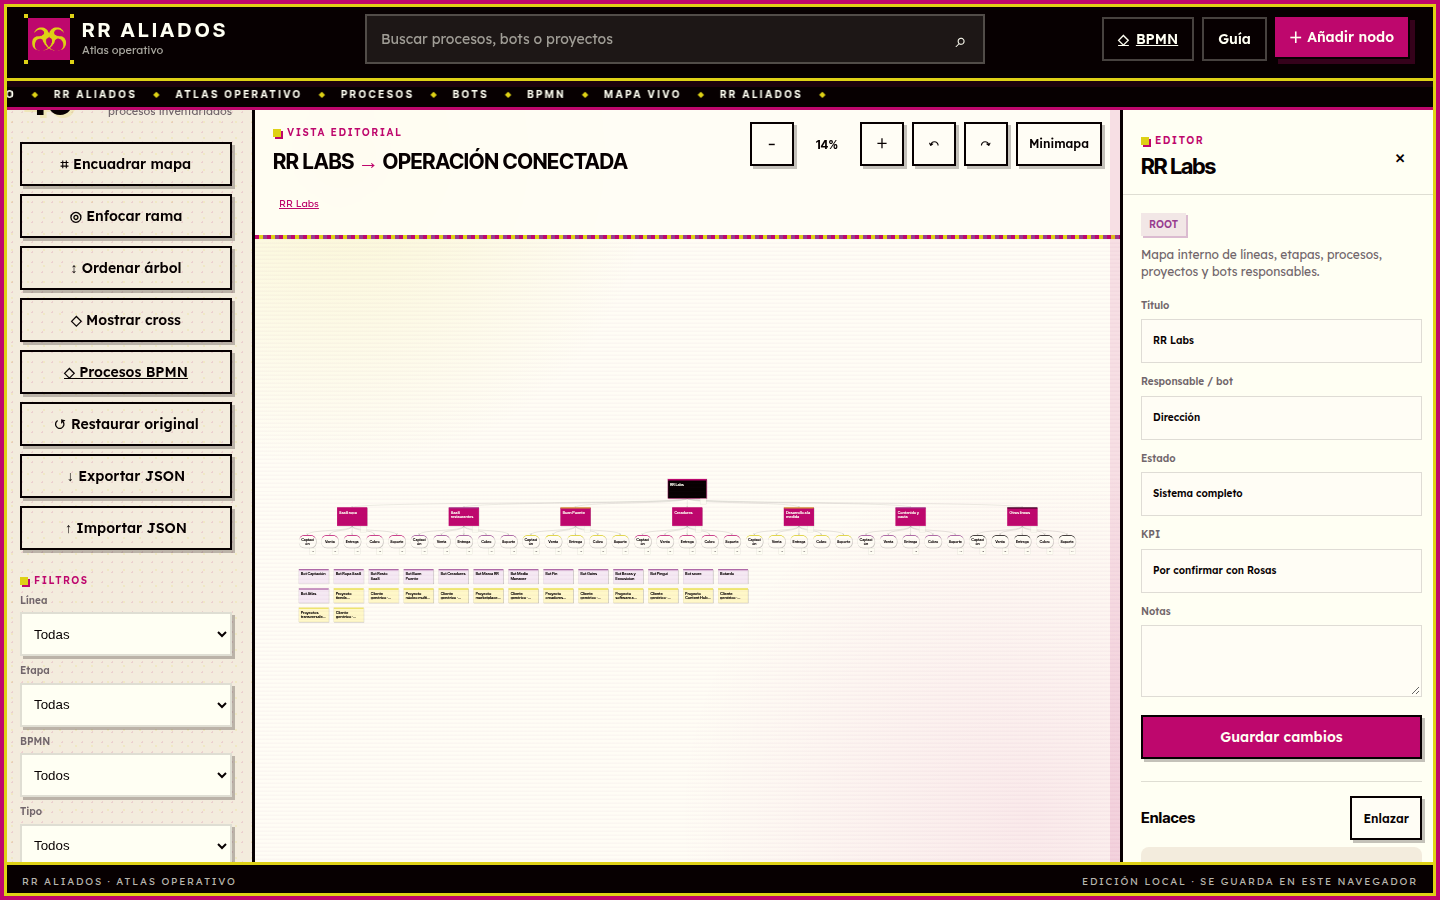
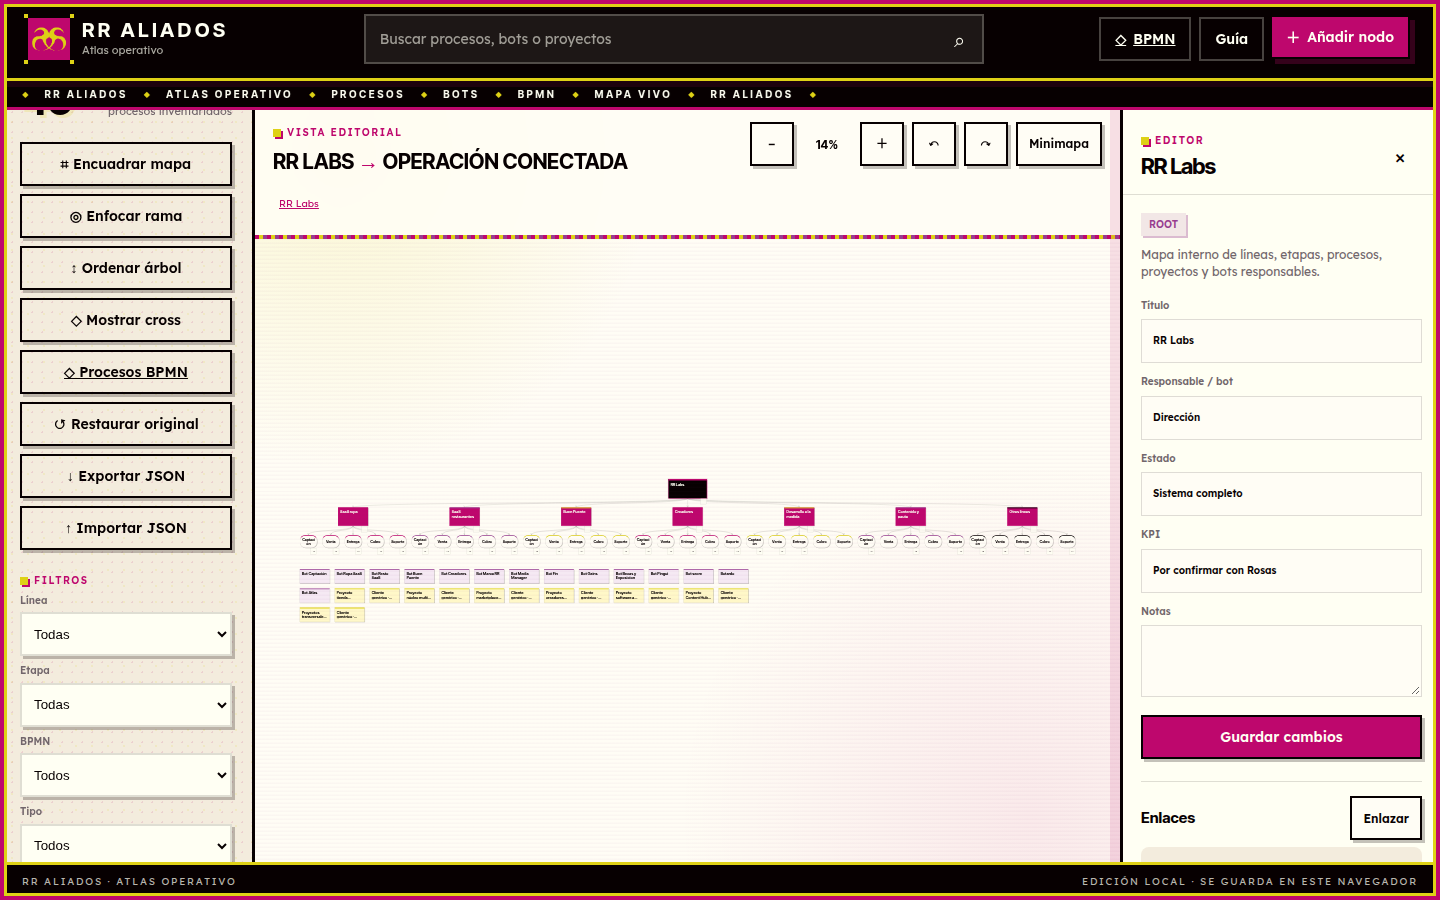
docs: bitácora del bloque 7 (item 7, responsive y táctil)

diff --git a/docs/fusion/BITACORA.md b/docs/fusion/BITACORA.md
@@ -370,3 +370,62 @@ bloqueaban el item 3. Todo queda commiteado y pusheado en la misma rama.
 - `docs/fusion/capturas/dividido-movil-390-esquema.png`
 - `docs/fusion/capturas/dividido-movil-390-inicio.png`
 - `docs/fusion/capturas/dividido-movil-390-completo.png`
+
+## Bloque 7 · Item 7 · Responsive y táctil — 2026-11-02
+
+### Qué se hizo
+- **El mapa ahora se puede usar con el dedo y con el mouse en tablet y celular.** El fallo de fondo era
+  el encuadre: `fit()` metía el árbol completo en la pantalla, y en 768 px eso daba **9 % de zoom**
+  (los nodos medían 23×12 px: ningún clic era posible) y en 360 px la raíz quedaba **fuera del lienzo**
+  (tapada por la barra lateral). Ahora, en ventanas de hasta 900 px, el mapa baja como máximo al
+  **45 % de zoom** y queda **anclado en la raíz del Atlas** (`nodoAncla()`: la selección actual o la
+  raíz), de modo que el nodo se lee y se toca. En escritorio **no se toca nada**: el encuadre completo
+  se conserva tal cual lo conoce Rosas.
+- **Clic en los nodos del mapa a 768 y 360 px**: verificado con clic real de Playwright. Antes el paso
+  «navegar» de la auditoría fallaba con `Timeout 30000ms exceeded` en las dos medidas; ahora el clic
+  abre el editor del nodo (`rr-labs`) en las dos.
+- **«Unir» ya no se monta sobre el título a 390 px**: la cabecera de la vista BPMN pasa a íconos en
+  celular (`▥`, `☰`, `←`) con `aria-label` y `title`, y el título se recorta con puntos suspensivos
+  (`.bpmn-view__identidad > div { min-width: 0 }` + `max-width: 100 %` en el título). Medido: el título
+  termina en 228 px y las acciones empiezan en 240 px → **sin solape** (antes: 258 vs 240).
+- **Controles del diagrama en un botón «⋯»**: en celular la barra se queda con lo esencial (pantalla
+  completa, editar, anterior, siguiente, zoom, encuadrar, guía) y **deshacer, rehacer, guardar copia,
+  restaurar semilla y exportar (.bpmn, SVG, PNG)** quedan en el menú **«⋯»**, que va fijo a la
+  izquierda de la barra deslizable. Las siete acciones miden 44 px de alto. En escritorio la barra
+  sigue igual que antes (el menú es solo de celular).
+- **Barra superior compacta en tablet** (≤ 900 px): marca y logo más chicos, «Añadir nodo» queda en el
+  ícono `＋` y todos los botones siguen con 44 px de alto.
+- **Gestos táctiles del tablero**: pan con un dedo y **pellizco con dos dedos** (zoom alrededor del punto
+  medio). En pantalla táctil el nodo no se arrastra: el dedo mueve o pellizca el mapa; con ratón el
+  arrastre de nodos sigue igual. El diagrama BPMN ya tenía `touch-action: none` en el contenedor de
+  bpmn-js, así que el pellizco funciona también allí.
+
+### Estado de los checks
+- `npm run check`: **verde** — 202 tests pass, 0 fail, build ok.
+- `npm run lint:bpmn`: **verde** — 16 semillas, 0 errores fuera de la deuda documentada.
+- `npm run audit:ux`: se vuelve a correr al cierre de este bloque (resultado en la tabla de abajo).
+- Pruebas de clic propias (Playwright, `/usr/bin/google-chrome`): clic en nodo del mapa **ok** a 768 y
+  360; pellizco en el mapa **ok** (zoom 45 % → 113 % en 390 px, 20 % → 51 % en 1440); pan con un dedo
+  **ok**; cabecera BPMN **sin solape** a 390, 360 y 768; menú «⋯» abierto y dentro de la pantalla con
+  las 7 acciones de 44 px; 0 errores de consola.
+
+### Cambios en las pruebas
+- `src/app/rr-tree-view.test.mjs`: el zoom móvil mínimo baja de 60 % a **45 %** (J8 y P2) porque el
+  encuadre completo en celular dejó de ser usable. Se añadió la comprobación nueva: **la raíz del Atlas
+  queda dentro del lienzo y se puede tocar** (≥ 90×44 px). En 1440 px las reglas de encuadre completo
+  siguen iguales.
+
+### Hallazgos / riesgos
+- En celular el mapa ya no muestra el árbol entero de un vistazo (se ve la rama anclada). Es el precio de
+  que los nodos se puedan tocar; el minimapa y «Encuadrar mapa» siguen disponibles.
+- En 360 px la barra del diagrama sigue siendo una fila deslizable: «Guía del diagrama» y «＋ Añadir»
+  quedan fuera de la vista inicial. El menú «⋯» sí queda visible.
+- El arrastre de nodos con el dedo se desactivó a propósito (el dedo mueve el mapa). Si Rosas quiere
+  reordenar en móvil, se puede reactivar con un modo explícito.
+
+### Pendiente del bloque
+- Item 8: modelo de datos v5 (fase 2 del mega prompt) con migración, store, export/import idempotente
+  y validador de campos prohibidos.
+- Aplicar las DECISIONES DE ROSAS (item B): quitar «RR Labs» del Mapa vivo, estados de clientes,
+  «Guía provisional», leyenda con íconos, reparar las 16 semillas a 0 avisos de lint, bots vigentes.
+- QA final (item D): clics reales de todos los flujos a 390, 768 y 1440 px + capturas por ancho.
